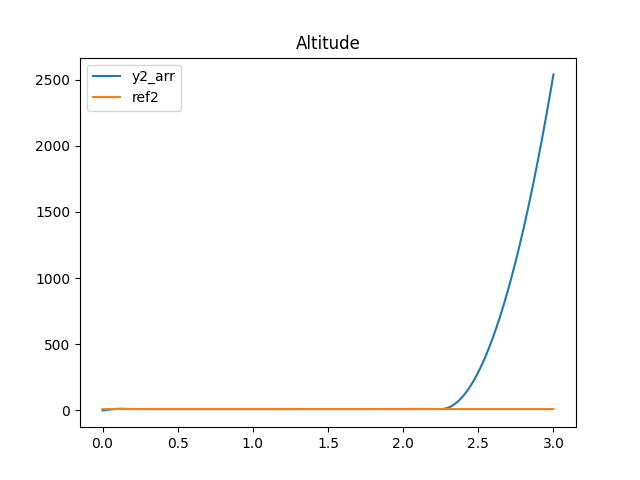
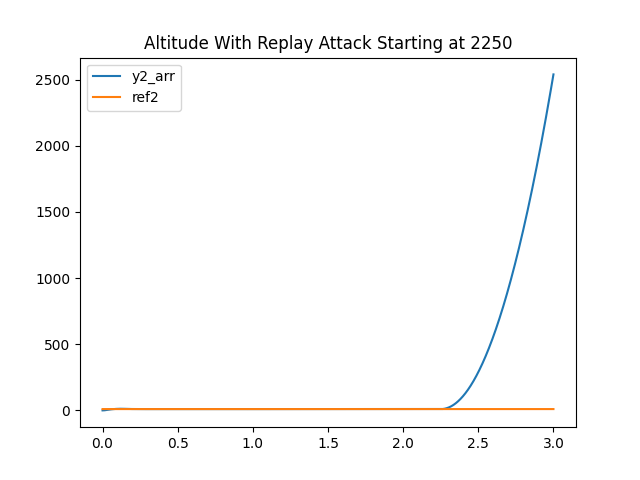
updated graph code

Changed region(s): [[0.2188, 0.0625, 0.8125, 0.125]]

diff --git a/src/examples/actuator_attack/quad_replay.py b/src/examples/actuator_attack/quad_replay.py
@@ -188,6 +188,7 @@ class quadrotor(Simulator):
 
 if __name__ == "__main__":
     max_index = 3000
+    replay_num = 3000
     dt = 0.01
     # reference value
     ref = [np.array([0, 0, 0, 0, 0, 0, 0, 0, 10, 0, 0, 0])] * (max_index + 1)
@@ -196,7 +197,7 @@ if __name__ == "__main__":
 
     # bias = np.array([0, 0, 0, 0, 0, 0, 0, 0, 3, 0, 0.2, 0.1])
     params={'start': 0, 'end': 1, 'bias': 100, 'step': 1}
-    bias_attack = Attack('replay', params, 2250)
+    bias_attack = Attack('replay', params, replay_num)
     ip = quadrotor('test', dt, max_index)
     for i in range(0, max_index + 1):
         assert ip.cur_index == i
@@ -215,18 +216,18 @@ if __name__ == "__main__":
 
     # 第一个图
     fig1, ax1 = plt.subplots()
-    ax1.set_title('Altitude')
+    ax1.set_title(f'Altitude With Replay Attack Starting at {replay_num}')
     ax1.plot(t_arr, y2_arr, label='y2_arr')
     ax1.plot(t_arr, ref2, label='ref2')
     ax1.legend()
-    plt.savefig('./figs/quadrotor-altitude-2250.png')
-    plt.show()
+    plt.savefig(f'./figs/quadrotor-altitude-{replay_num}.png')
+    # plt.show()
 
     # 第二个图
     fig2, ax2 = plt.subplots()
-    ax2.set_title('u-force')
+    ax2.set_title(f'U-Force With Replay Attack Starting at {replay_num}')
     ax2.plot(t_arr, u_arr, label='u_arr')
-    ax2.legend()
     ax2.axhline(9.80656, color='red', label='gravity')
-    plt.savefig('./figs/quadrotor-uforce-2250.png')
+    ax2.legend()
+    plt.savefig(f'./figs/quadrotor-uforce-{replay_num}.png')
     plt.show()
